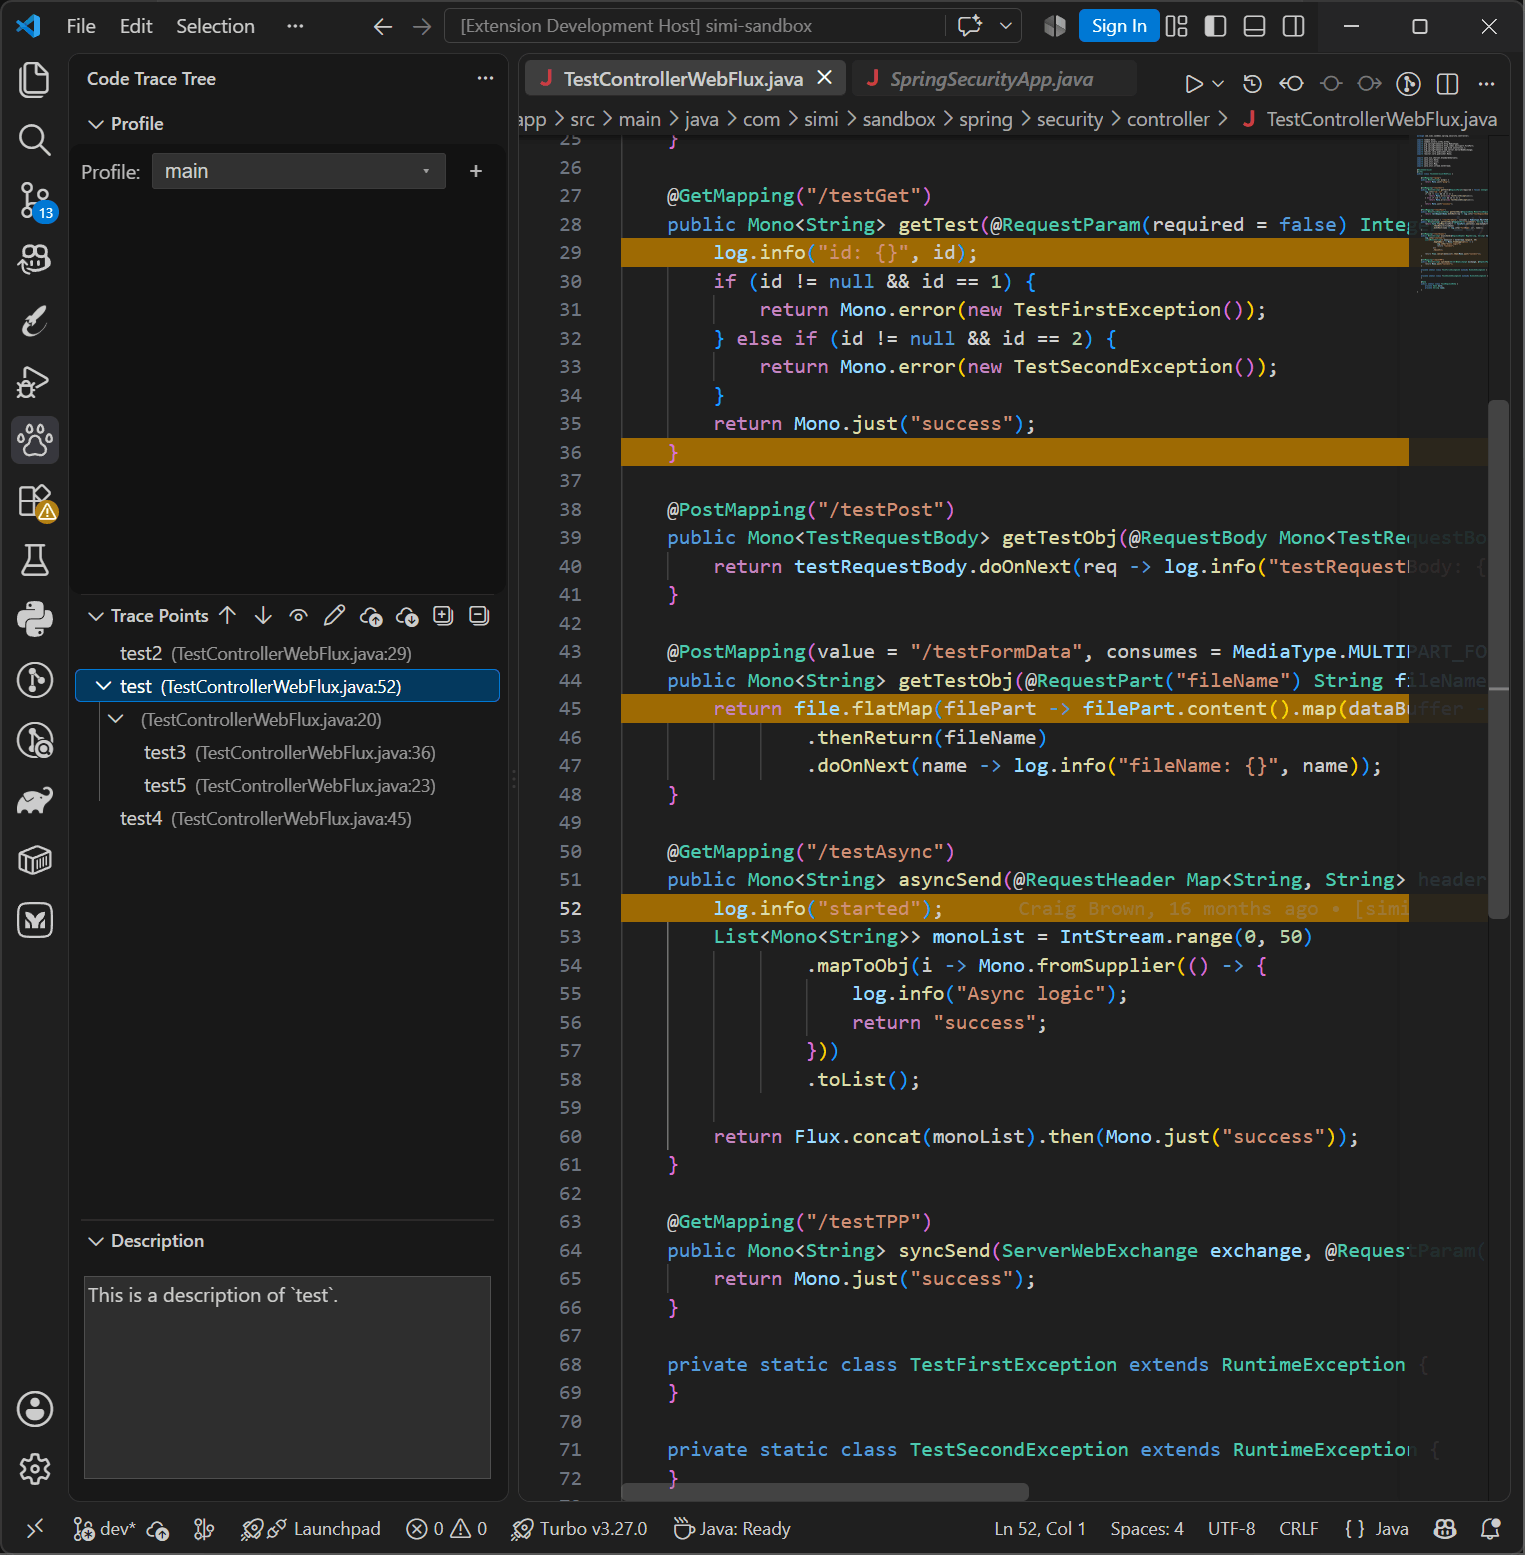
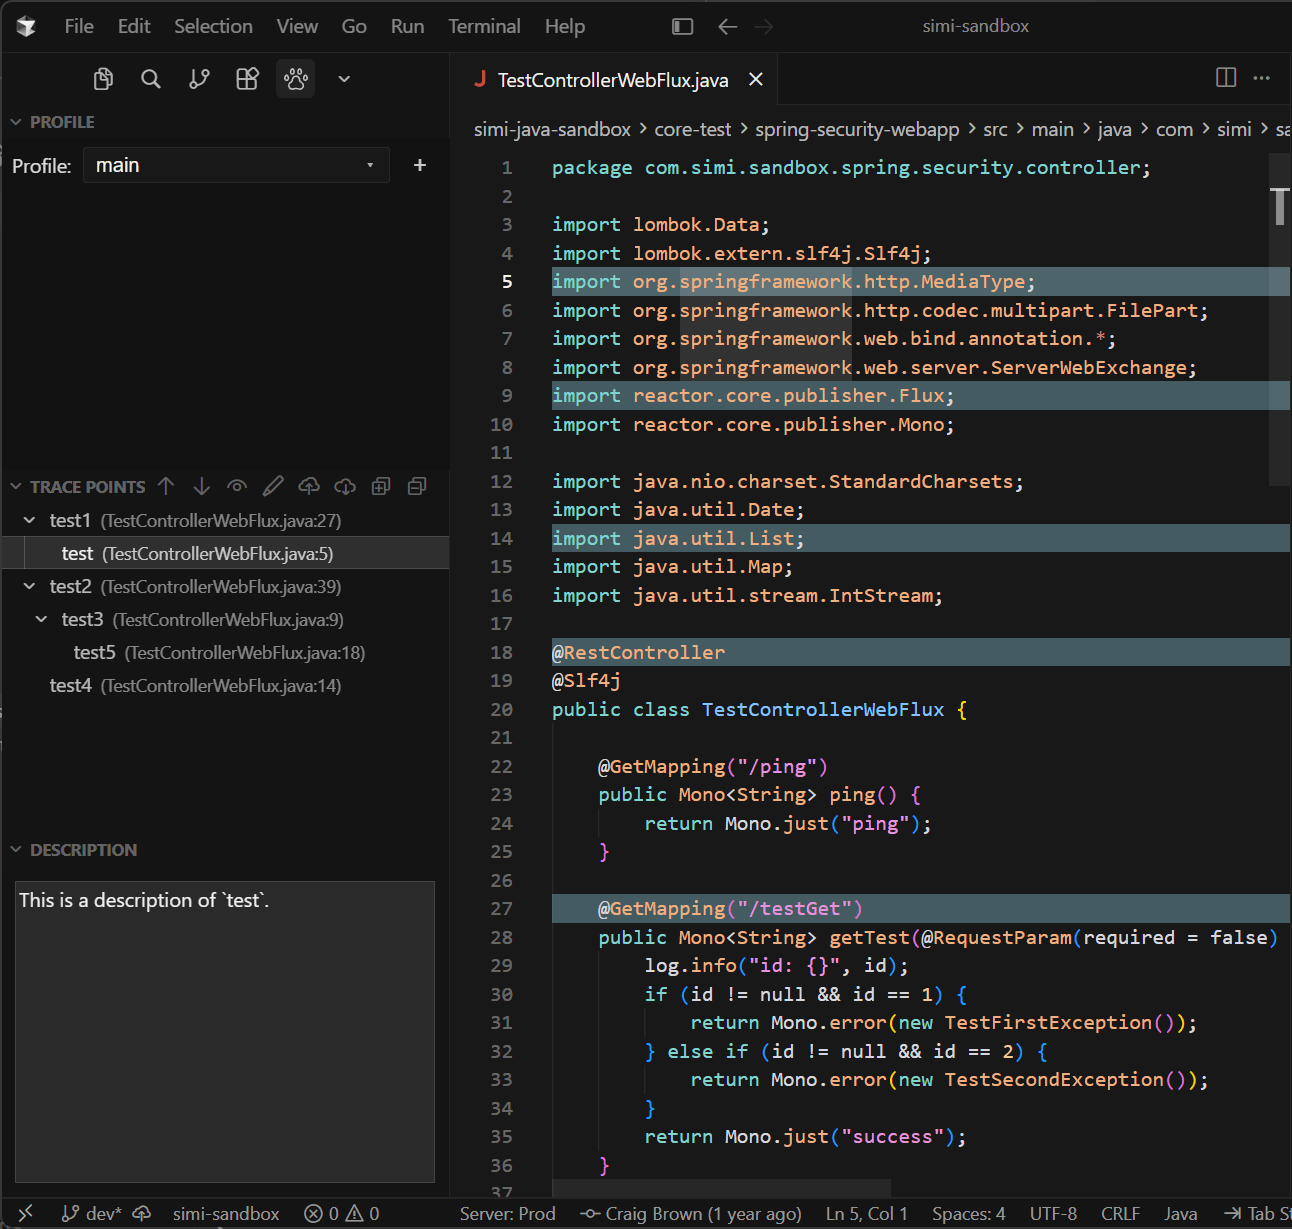
[UI] fix: Keep Trace Points toolbar visible on empty view
Sync empty-state context when the tree changes, allow title menus on the empty webview, and refresh Cursor marketplace preview assets.

diff --git a/main/src/TracePointService.ts b/main/src/TracePointService.ts
@@ -315,6 +315,7 @@ export class TracePointService {
       'codeTraceTree.namePromptEnabled',
       this._namePromptEnabled
     )
+    await this.syncEmptyStateContextKey()
   }
 
   /** True when the tree is empty and only the default main profile (or no profiles) exists. */
@@ -438,6 +439,7 @@ export class TracePointService {
 
   private notifyProfileListeners() {
     this.profileListeners.forEach((listener) => listener())
+    void this.syncEmptyStateContextKey()
   }
 
   /** Copy working tree + expand ids back into the active TraceProfile. */
@@ -716,6 +718,7 @@ export class TracePointService {
     nodes: Set<TracePointNode | null> | null = null
   ) {
     this.listenersMap.get(eventType)?.forEach((listener) => listener(nodes))
+    void this.syncEmptyStateContextKey()
   }
 
   async addTracePoint(
